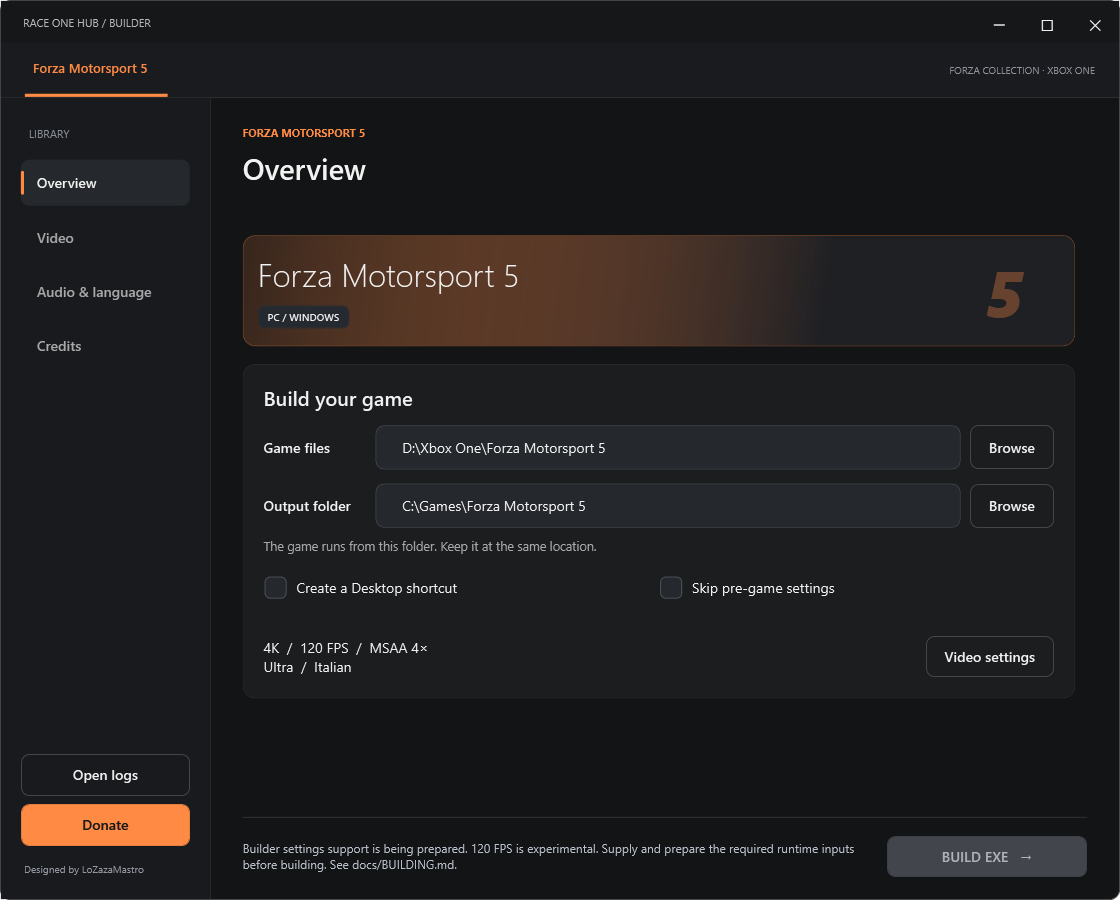
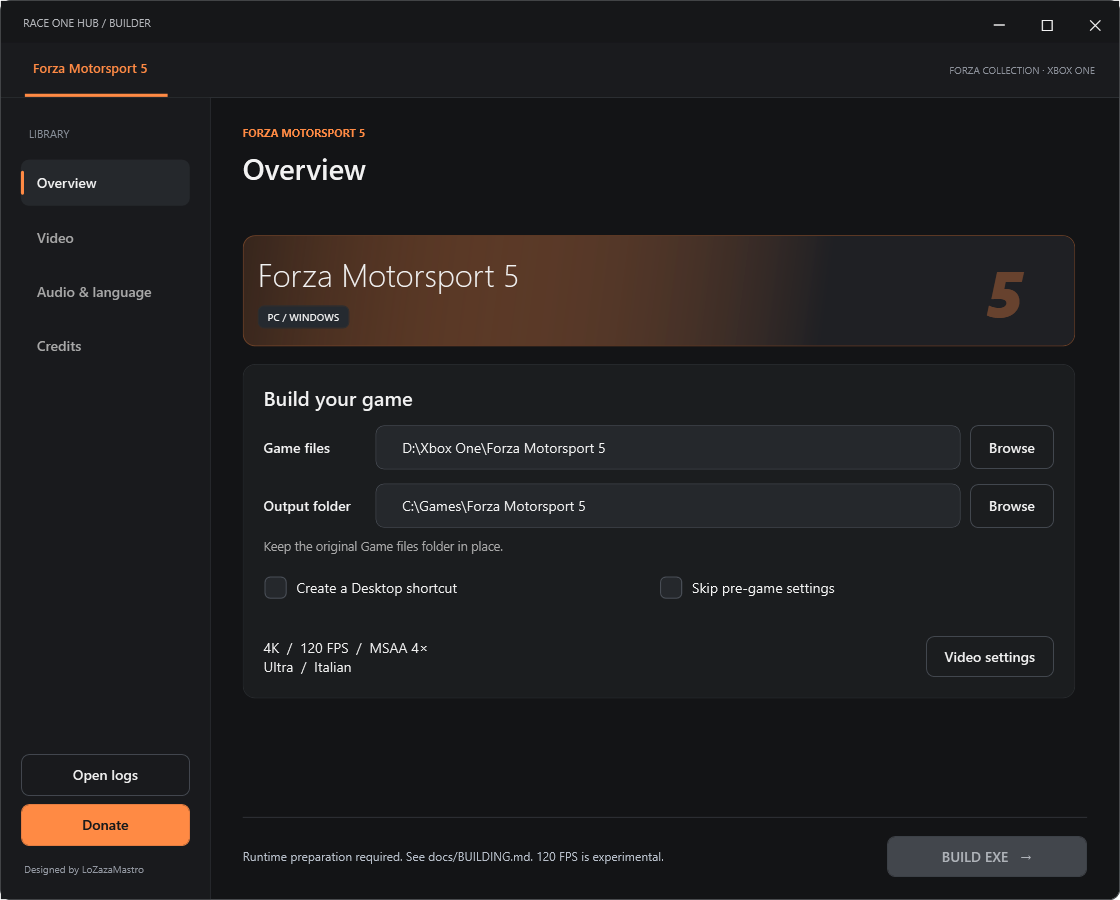
Clarify original game-folder and runtime preparation guidance

Changed region(s): [[0.2188, 0.9333, 0.75, 0.9644], [0.25, 0.5911, 0.5312, 0.6222]]

diff --git a/launcher/ForzaMastro.Launcher/MainWindow.xaml b/launcher/ForzaMastro.Launcher/MainWindow.xaml
@@ -57,7 +57,7 @@
          <TextBox x:Name="OutputPath" Grid.Column="1" Padding="12,5" Height="44" IsReadOnly="True" AutomationProperties.Name="Output folder"/>
          <Button x:Name="OutputBrowseButton" Grid.Column="2" Content="Browse" Style="{StaticResource GhostButton}" Click="BrowseOutput_Click" Margin="10,0,0,0" AutomationProperties.Name="Browse output folder"/>
         </Grid>
-        <TextBlock Text="The game runs from this folder. Keep it at the same location." Style="{StaticResource CaptionText}" Margin="0,10,0,0"/>
+        <TextBlock Text="Keep the original Game files folder in place." Style="{StaticResource CaptionText}" Margin="0,10,0,0"/>
         <Grid Margin="0,14,0,0"><Grid.ColumnDefinitions><ColumnDefinition Width="*"/><ColumnDefinition Width="*"/></Grid.ColumnDefinitions>
          <CheckBox x:Name="DesktopShortcutBox" Content="Create a Desktop shortcut" Style="{StaticResource DarkCheck}" IsChecked="False" Checked="DesktopShortcut_Changed" Unchecked="DesktopShortcut_Changed"/>
          <CheckBox x:Name="PreGameSettingsBox" Grid.Column="1" Content="Skip pre-game settings" Style="{StaticResource DarkCheck}" IsChecked="False" IsEnabled="False" Checked="PreGameSettings_Changed" Unchecked="PreGameSettings_Changed"/>

diff --git a/launcher/ForzaMastro.Launcher/LauncherModel.cs b/launcher/ForzaMastro.Launcher/LauncherModel.cs
@@ -234,11 +234,11 @@ public sealed class LauncherModel
             option.Availability = option.Enabled ? "" : "Unavailable in this PC profile";
         }
         Status =
-                 !All.All(option => option.Enabled) ? "Builder settings support is being prepared." :
+                 !All.All(option => option.Enabled) ? "Runtime preparation required. See docs/BUILDING.md." :
                  string.IsNullOrEmpty(GameFolder) ? "Choose your extracted " + GameTitle + " folder." :
                  !Directory.Exists(GameFolder) ? "The selected game folder is unavailable. Choose it again." :
                  backend.running ? "Close " + Path.GetFileNameWithoutExtension(OutputExecutableName) + " before building." :
-                 backend.build_ready ? "Ready to build." : "EXE builder support is being prepared.";
+                 backend.build_ready ? "Ready to build." : "Runtime preparation required. See docs/BUILDING.md.";
         if (backend.warnings.Length > 0) Status += " " + string.Join(" ", backend.warnings);
         UpdateNotes();
     }

diff --git a/tools/pc_launcher_backend.py b/tools/pc_launcher_backend.py
@@ -128,8 +128,7 @@ def capabilities(root, game_folder=None, game_id="fm5"):
             'game_folder': selected_game, 'copies_user_game_files': False,
             'desktop_shortcut_supported': True,
             'preset_status': manifest.get('preset_status', {}),
-            'warnings': ['120 FPS is experimental.'] +
-                        ([] if ready else ['Supply and prepare the required runtime inputs before building. See docs/BUILDING.md.'])}
+            'warnings': ['120 FPS is experimental.']}
 
 
 def validate_settings(settings):
